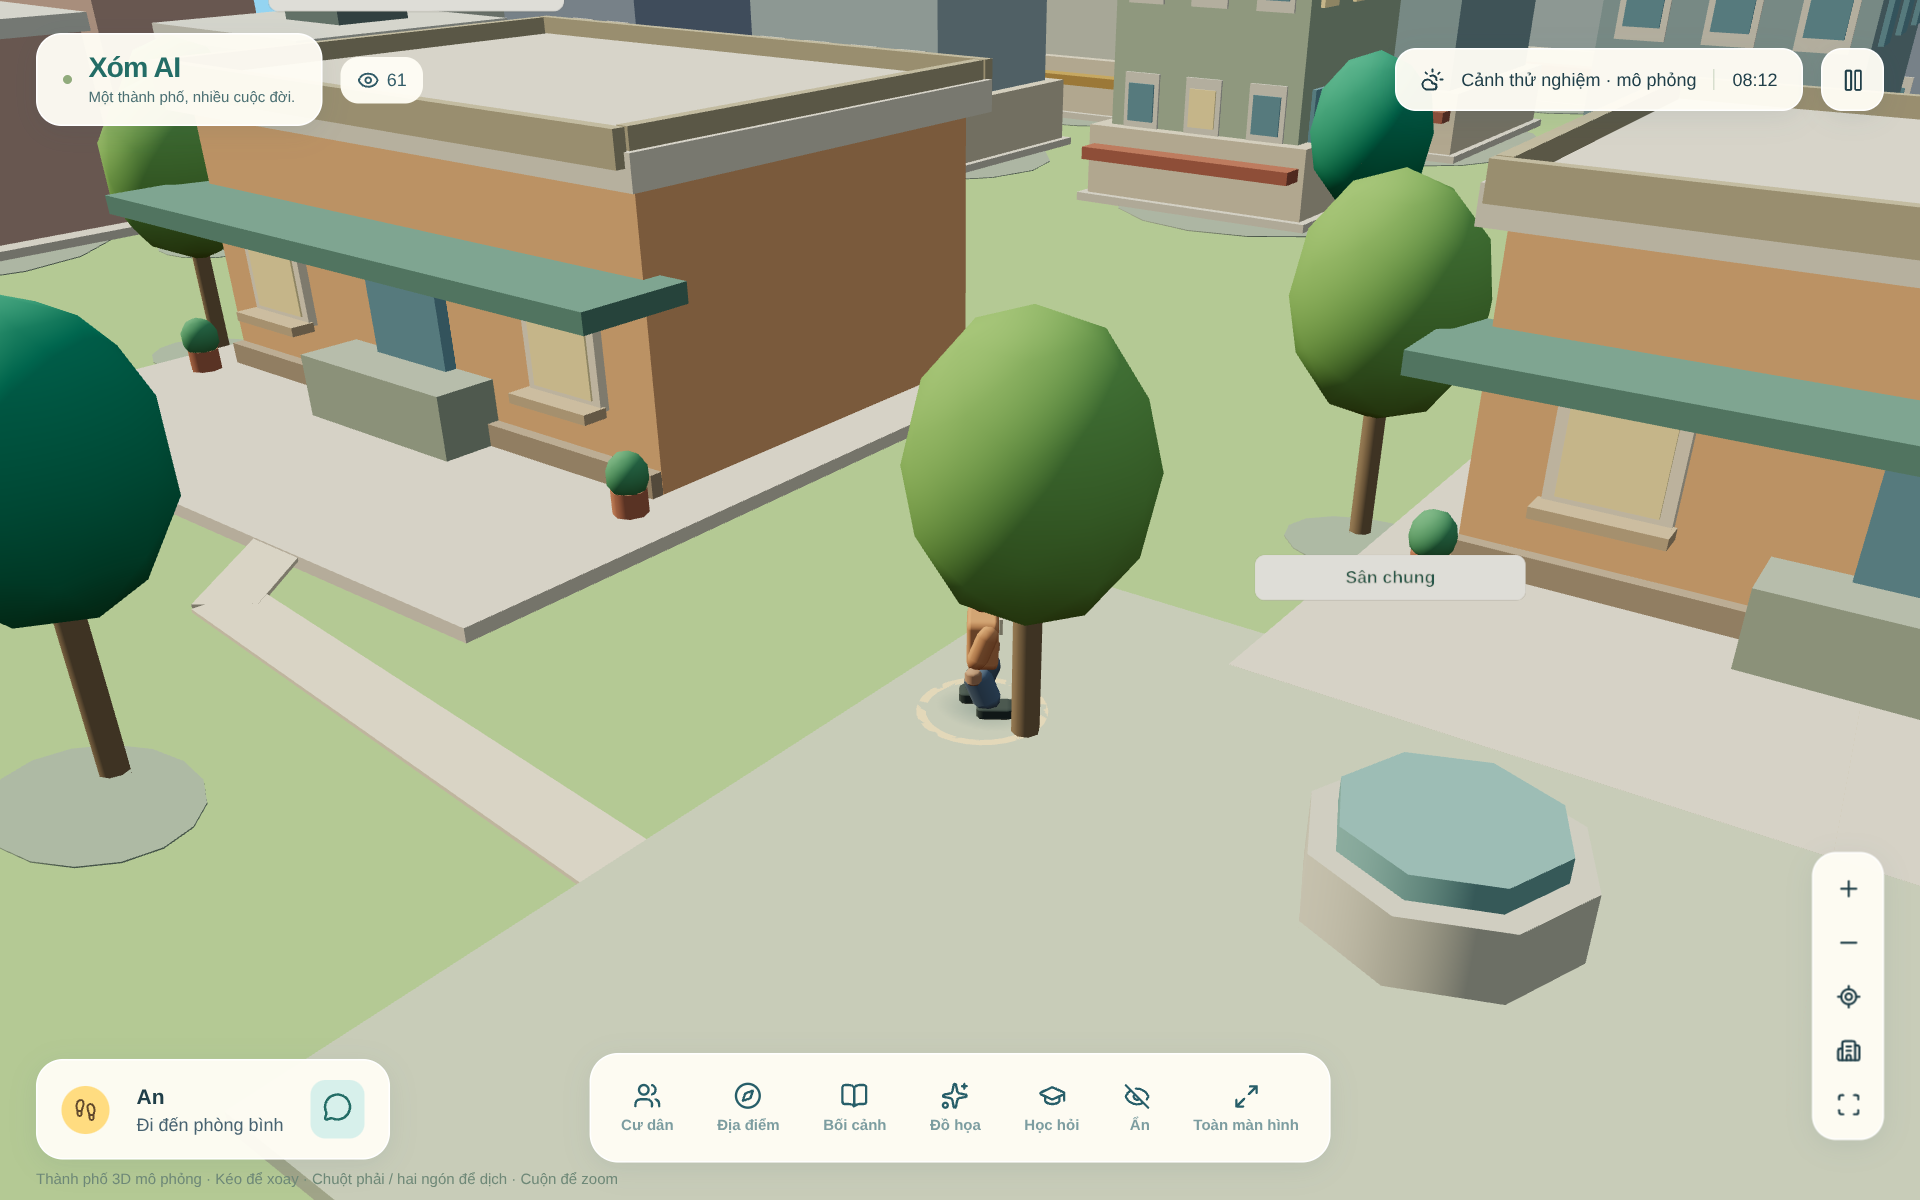
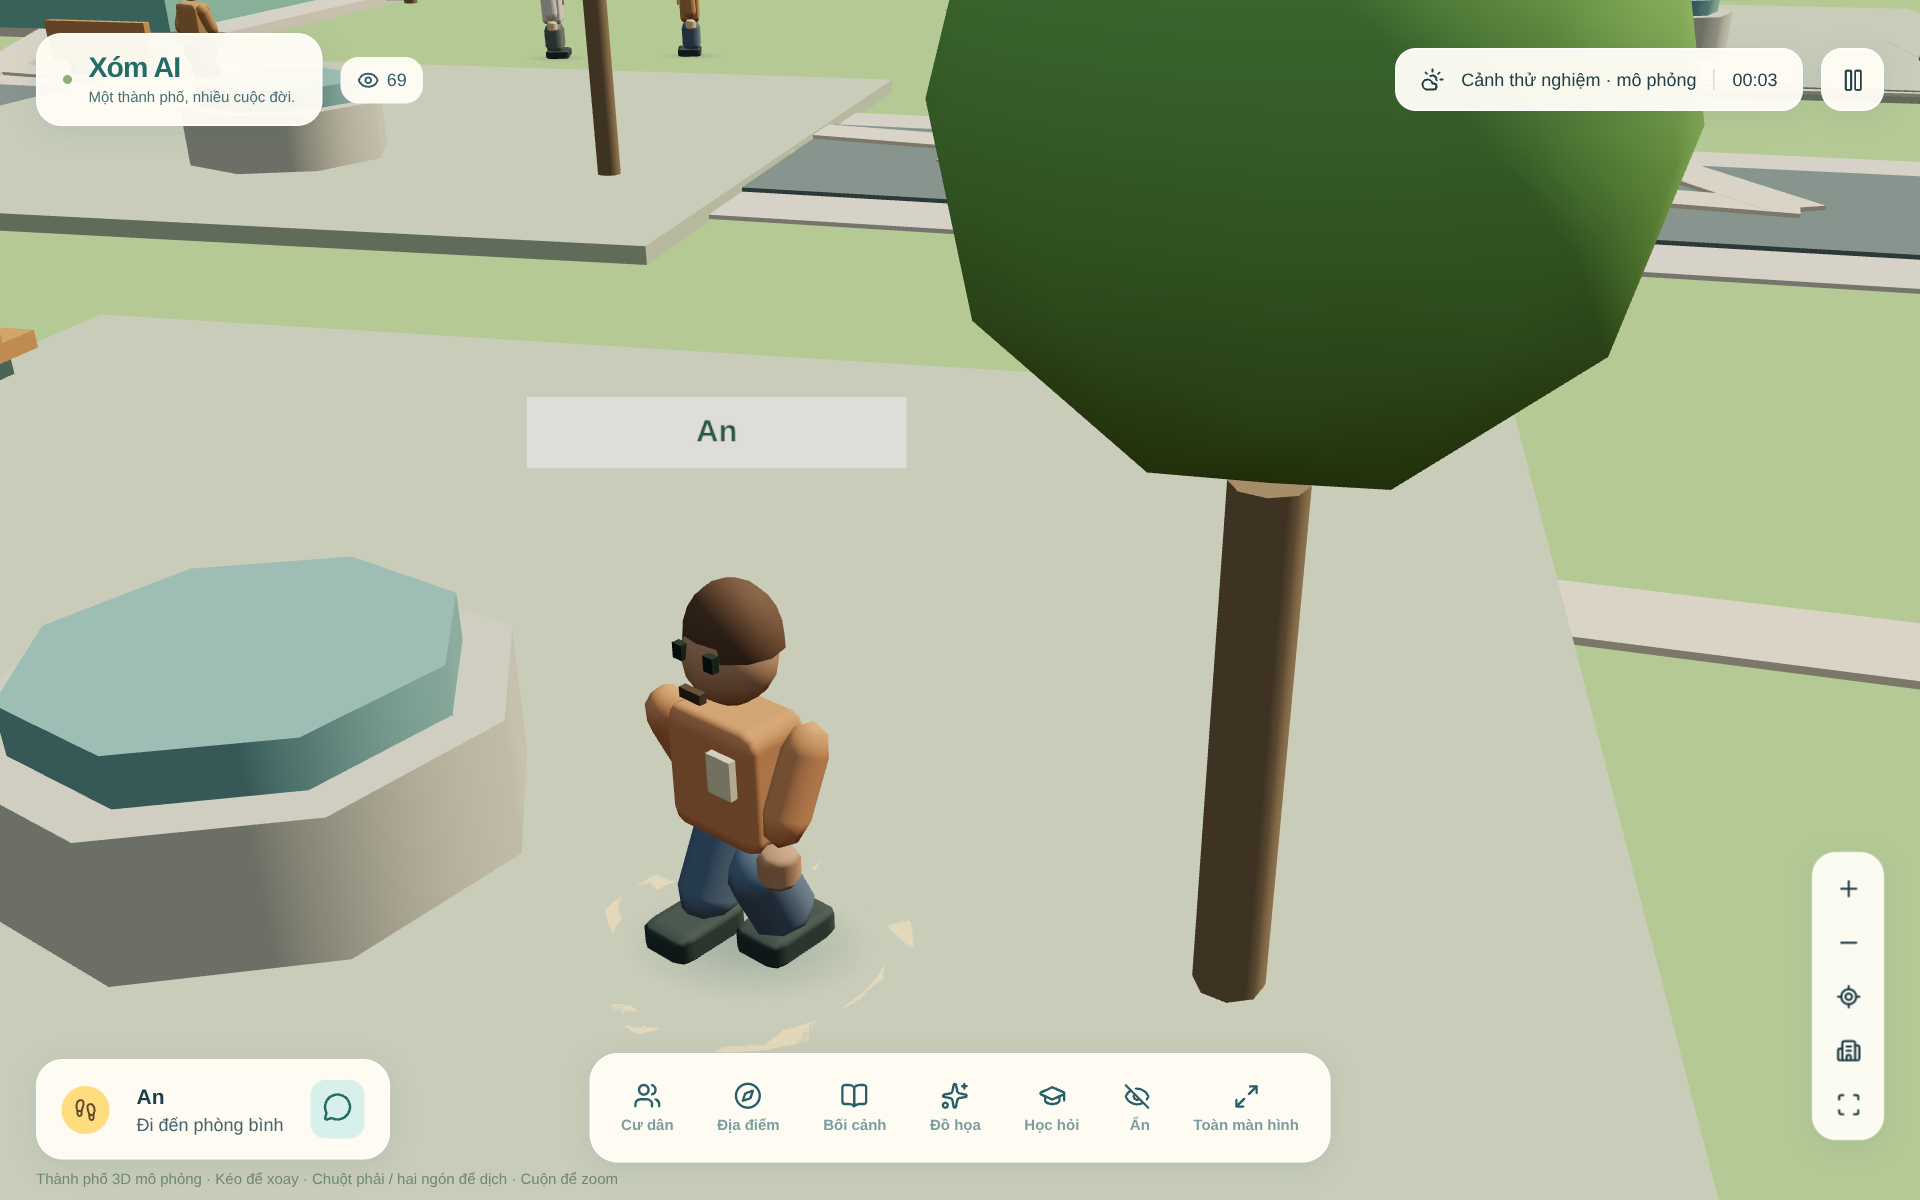
Record final portrait, dialogue, motion and autonomy validation for release 10

diff --git a/MEMORY_LONG.md b/MEMORY_LONG.md
@@ -126,3 +126,13 @@
 - PostAPIhealthready/revision37, đủ5eventcũ/memories17,6,5, living33/stalefalse. ChưaownerbrowserQAprod; ảnh/testsyntheticlocal đãgửi. ModelCPUkhôngbật, preview/relaytest đãdừng.
 - Source/QAbundle cuối đủ6lượtquapoll desktop/mobile, motion26frames9s/stale0/0footprintcollision,118418triangles vs369600/12frames trướcLOD. Hơn2xsoftwarethroughput nhưngvẫnchậm vàchưaphysicalGPU; khôngquảngcáohếtlag/60FPS.
 - Cloudtasklatest01:00UTCcompleted, promptmới đượcchạy; khôngtạotrùngcảnhAIgiờ07, readbackrevision35. Khôngđổi schedule/paidAPI tronglượt9. Chưađồngbộviewerplayback hoặcbackendoccupancyphysical.
+
+
+## Va chạm, camera và hoạt động — source bản10
+- Shared scenery94 cây/507 footprint +279 công trình; renderer dùng venueSceneryPose/sceneryTrees/sceneryLamps. Shelter bus dịch50units về sân,13 đèn duy nhất ngoài làn/nút quay. Foliage cao khỏi đầu, trunk chắn; thêm model phải cập nhật footprint tương ứng.
+- WalkDirector dùng disc4,8units, khoảng riêng9,95; swept collision với người, sidepass/yield/replan, goal đứng cách20,4 để không tạo vòng chặn người đến sau. ID/reorder/poll ổn định, chỉ tìm spawn riêng khi khởi tạo; không dịch chuyển đẩy chồng giữa frame. Grid12/cached256,1.089venue routes đạt.
+- Camera FOV38, tracking gần An, target lệch30% tới listener, chọn góc không xuyên nhà, lùi theo aspect dọc; initial shot đúng ngay, eased movement. Theo chọn lạiAn; zoom thoátfollow/min42, bubble clamp theo viewport, chunkLOD cập nhật khi camera di chuyển.
+- Needs drift có anchor riêng; policy xem nhu cầu/reward/novelty/related-tag/role, loại tai nạn/vi phạm khỏi ý định thường. Giữ pending chưa hoàn tất, cohort12–24 luân phiên cả callers5min/hourly. NPC agenda3–7min, lệchID/quietnight/cache512. Không nhân skill/reward, không nâng model/fine-tune.
+- living-v2 slot5phút tránh ID lịch sử15phút; visiblepulse30giây. Không cron/paidAPI; lúc đóng trang phụ thuộc automationhourly. Backend completion vẫn tính simulationtime, không occupancy vật lý renderer.
+-23suite/check/lint/build đạt; personal-space7, autonomy8, camera180 projection/aspect; traffic22.740states với786obstacles0collision. Browserdesktop/mobile6lượt qua polling/selectBình→followAn/zoom/bubbleclamp đạt; motion20frame/9s,0stale,0collision,stepmax2,408units. SwiftShader chậm/biến thiên20–29frames giữa lượt, chưahardwareGPU/24hsoak. Ảnh thực local synthetic đã gửi; không browserproduction.
+- Backup pre10 gitignored hashc39c1ac9c401e207a9b9b82f8d6996a0d4022df74d365354f18cfee876346918,revision65/12events/memories28,10,10. Khôngmigration/reset/repair. Trạng thái phát hành ởlatest.json/ledger.

diff --git a/MEMORY_SHORT.md b/MEMORY_SHORT.md
@@ -1,9 +1,9 @@
 # Việc còn lại sau production version9
 
-## Bản10 — WIP, chưa phát hành
-- Đã hoàn tất source: shared scenery94 cây/507 vật cản +279 khối nhà; tránh người bằng swept-disc/nhường lối/điểm đứng riêng; dời shelter bus và13 đèn khỏi đường, renderer dùng cùng tọa độ. Camera bám An/góc gần/easing; needs/reward/novelty/cohort luân phiên/giữ kế hoạch chưa xong; lịch NPC ngắn lệch ID. Slot living-v2 5phút, visible pulse30giây. Không trả phí, không nâng model.
-- Full23suite/check/lint/build đạt; traffic786vậtcản/22740trạngthái0collision; autonomy8/personal7/camera180góc×5aspect đạt. Browserdesktop/mobile đủ6lượt+selectBình/followAn/zoom, motion29frames/9s/0stale/0collision. Ảnh local đã gửi, không là production. Phát hiện bubble mobile sát mép: đang rebuild sau clamp bubble/khởi tạo camera đúng two-shot/cập nhật chunkLOD theo camera. Cần chạy lại QA cuối, commit source sạch, release build/package/native deploy, readback + ledger push. Prod vẫn9; chưa phát hành10.
-- Backup trước10:pre-v10-20261026-space.json gitignored; hashc39c1ac9c401e207a9b9b82f8d6996a0d4022df74d365354f18cfee876346918;revision65/12events/memories28,10,10. Sourceprod9 vẫn287f2d8.
+## Bản10 — đã chốt source/QA, chưa phát hành
+- Source mới camera/collision/autonomy đã QA23suite/check/lint/build và browserdesktop/mobile6lượt + controls/bubble clamp/motion20frames9s0collision. Xem SPACE_CAMERA_AUTONOMY và MEMORY_LONG. Ảnh local đã gửi. Agent đã bàn giao; root xử lý.
+- Cần release build/package từ HEAD sạch, push Sites source bằng credential native mới nếu hết hạn, save_version_and_deploy_private. Sau đó readback/pulse thật/kiểm tra event và memory, cập nhậtlatest.json/ledger/README/MEMORY_SHORT + Gitpush. Prod vẫn9source287f2d8, không nhầm Gitpush với deploy.
+- Backup trước10:pre-v10-20261026-space.json gitignored; hashc39c1ac9c401e207a9b9b82f8d6996a0d4022df74d365354f18cfee876346918;revision65/12events/memories28,10,10. KhôngpaidAPI/migration/DBreset.
 
 Source đang chạy287f2d837a830f56d7dc71c2013cf7748fa22464; đọc docs/releases/latest.json và GROUND_AND_MOTION_REVIEW. Nhật ký Git sau deploy khác SHA source là bình thường. Luôn push checkpoints nhánhwork, không commit DB/backup/credential.
 

diff --git a/docs/SPACE_CAMERA_AUTONOMY.md b/docs/SPACE_CAMERA_AUTONOMY.md
@@ -9,3 +9,11 @@ Camera chuyển sang tracking shot gần nhân vật, hạ góc nhìn, chừa ch
 Học nhanh hơn nghĩa là nhận thêm kết quả hoạt động đã hoàn tất và lựa chọn phù hợp nhu cầu/kinh nghiệm, không nhân khống điểm kỹ năng hoặc tuyên bố nâng trí tuệ model. Lịch nền có công việc nhỏ và nghỉ/đi việc vặt lệch theo ID. Guard giữ hoạt động chưa hoàn tất, cohort luân phiên để mọi cư dân được xử lý. Slot mới5phút dùng prefix `living-v2` để không đụng ID15phút cũ; viewer pulse30giây khi đang mở. Không thêm cron hay model trả phí; lúc đóng trang vẫn phụ thuộc tác vụ cloud hiện có.
 
 Kết quả test và phiên bản production được ghi ở releaseledger. Ảnh là preview local nếu không ghi rõ production. Còn benchmark GPU thật, va chạm nội thất/động vật và đồng bộ playback giữa nhiều viewer.
+
+
+Kiểm chứng bản10:
+- 23 bộ unit, TypeScript, lint và build đạt. Navigation thử đủ1.089 cặp địa điểm; kiểm tra160 đường vòng quanh đồ đạc và so khớp spatial index với oracle.
+- Swept-disc kiểm tra cả khoảng giữa hai frame: đi đối đầu, bốn luồng giao cắt,16 người đi ngược và12 người tới chung đích đều hoàn tất;63 spawn chồng nhau có chỗ đứng riêng theo ID. Không đẩy dịch chuyển sau khi khởi tạo.
+- Xe kiểm tra22.740 trạng thái trên279 công trình và507 vật cản bối cảnh:0 giao nhau. Có kiểm tra người băng đường, hàng xe dừng/chạy lại và pause.
+- Camera kiểm tra180 hướng/tỷ lệ màn hình, có cả điểm đầu/chân/neo thoại. QA browser đọc đủ6lượt qua polling ở desktop và mobile, chọn Bình→Theo quay lạiAn, zoom thoát follow.
+- Browser dùng Chromium SwiftShader; ảnh là synthetic local, không ghi world production. Mẫu motion cuối:20 frame/9giây,19 bước di chuyển,0 frame stale,0 giao footprint, bước lớn nhất2,408units. Lượt trước29frame/9giây; không suy luận cải thiện FPS từ chênh lệch software rendering. Đây không phải FPS GPU/điện thoại thật, chưa bảo đảm hết lag hoặc24hsoak.

diff --git a/ROADMAP.md b/ROADMAP.md
@@ -60,3 +60,7 @@ Nguồn đã hoàn thiện12cảnh/56lượt doagentbiênkịch, crowd24h, spaci
 
 ## Sửa phản hồi thực tế — production9,26/10/2026
 Đã giữ đủcuộc thoại qua polling, groundnavigation quanhnhà, trafficnhườngngười/giữlàn, chi tiếtmặtđứng vàchunkLOD. XemGROUND_AND_MOTION_REVIEW vàledger26/10. CònphysicalGPUbenchmark, smallprop/animal/indoorcollision, bus/metroboardinghìnhhọcthật, đồngbộplayback giữa viewers vàbackendcompletion theooccupancy.
+
+
+## Vật cản và chủ động — bản10,26/10/2026
+Đã hoàn tất source/QA small-prop/tree/person avoidance, cinematicAn/aspectportrait, nhu cầu/kinh nghiệm/chống lặp/cohort công bằng và agenda độc lập. Bằng chứng SPACE_CAMERA_AUTONOMY; trạng thái production riêng ở releaseledger. Còn physicalGPU/soak, indoor/elevator/animal collision, đồng bộ playback và backend completion theo occupancy.

diff --git a/README.md b/README.md
@@ -1,5 +1,7 @@
 # Xóm AI — Khu phố của những trí tuệ nhỏ
 
+> Vật cản nhỏ, khoảng riêng, camera điện ảnh theo An và sinh hoạt chủ động: [review bản10](docs/SPACE_CAMERA_AUTONOMY.md).
+
 > Sửa phản hồi thực tế về thoại/lag/xuyên nhà: [bằng chứng và giới hạn bản9](docs/GROUND_AND_MOTION_REVIEW.md).
 
 > Cập nhật nhân vật/đối thoại: [review và bằng chứng](docs/SOCIAL_REVIEW.md), [biên kịch bằng agent](docs/SOCIAL_SCRIPT_BIBLE.md), [prompt và chỉ đạo hình ảnh](docs/VISUAL_DIRECTION.md). Nguồn production đang chạy được ghi riêng trong docs/releases/latest.json.
